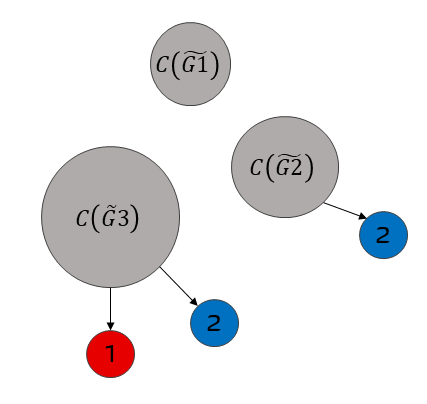
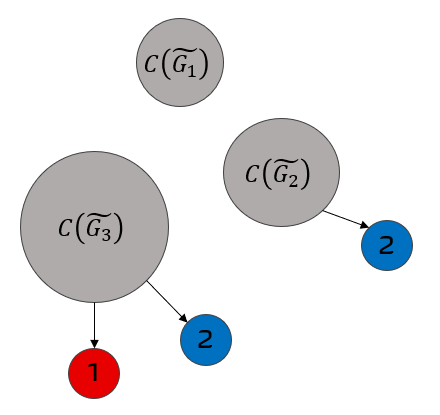
Reviewed all up to Chapter III included.

diff --git a/Report/chapters/TheoreticalAnalysis.tex b/Report/chapters/TheoreticalAnalysis.tex
@@ -1,6 +1,6 @@
-\section{Theoretical Analysis}
+\section{Theoretical Analysis and Results}
 \subsection{General Considerations}
-Without loss of generality, the labels of the nodes in the graph can be selected so that the indices referring to the fake/real news sources appear to be the last ones. Considering $n_p$ as the number of people in the network, $n_s$ as the number of fake and real news sources and $n = n_p + n_s$ the sum thereof, then $A \in \mathbb{R}^{ (n) \times (n)}$ can be partitioned as follows:
+Without loss of generality, the labels of the nodes in the graph can be selected so that the indices referring to the fake/real news sources appear to be the last ones. Considering $n_p$ as the number of people in the network, $n_s$ as the number of fake and real news sources and $n = n_p + n_s$ the sum thereof, then $A \in \mathbb{R}^{ n \times n}$ can be partitioned as follows:
 
 $$
 A = 
@@ -11,20 +11,35 @@ A =
 \quad
 $$
 
-Where $\tilde{A}$ describes the reciprocal human-human interactions and $\tilde{B}$ describes how people's opinions are directly affected by the sources. The zero and identity matrices below encode the fact that the sources' opinions are not changing over time. \newline
-The matrix A is row-stochastic, which implies that $1_n$ is eigenvector of A with eigenvalue 1. The Gershgorin disk theorem tells that a row-stochastic matrix cannot have an eigenvalue with magnitude greater than one. By applying the theorem to the treated case, where each diagonal element is different from zero, it can be concluded that the only possible eigenvalue with magnitude equal to one is 1 itself. The following therefore holds for the spectrum of A (1 has algebraic multiplicity $n_{mult}$):
-\begin{align*}
-spec(A) \subset \{\mu \in \mathbb{C}^n,\ \mu_i = 1\ \forall i & \in \{1,..,n_{mult}\},\\
-| \mu_i | < 1 \text{ otherwise}\}
-\end{align*}
-Because $\rho(A) = 1$, the matrix A cannot be stable but it is semi-stable iff $1 \in spec(A)$ is semi-simple. \newline
-The randomness in the graph generation process do not allow to conclude much more deterministically. The properties of $\tilde{A}$ are of great importance to infer the system behavior. It is remarkable that with the proposed set up: N = 100 individuals and $C$ = 0.2, nRoot = 4 (this fully describes the probabilistic model of the connections between a person and its neighbors, see Subsection~\ref{subsec:connections_existence}. The numerical values are the ones used for the numerical experiments, see Section~\ref{sec:experiments}), $\tilde{A}$ describes a strongly-connected graph in 99.4$\%$ of the cases. This value was obtained after generating 10000 different networks. The graph is directed and a connection from node i to node j implies a connection from j to i but with different weights in general. The 0.6$\%$ represents therefore some pathological and unlikely cases where part of the network is completely disconnected from the rest. This could represent an isolated and separated society living in our simulated world. Since these cases are not relevant for the aim of this project (the news spread in a connected society is studied), these cases were simply discarded. From now on, it can therefore be assumed that the graph describing the human-human interactions is strongly connected, meaning that the matrix $\tilde{A}$ is irreducible.\newline In the following, the steady state behavior of the discrete time averaging system of Equation~\eqref{eq:model}
-is analyzed under various circumstances.
-\acomment{check that convergence to consensus if no source}
+Where $\tilde{A}$ describes the reciprocal individual-individual interactions and $\tilde{B}$ describes how people's opinions are directly affected by the sources. The zero and identity matrices below encode the fact that the sources' opinions are not changing over time.\\
+
+The matrix A is row-stochastic, which implies that $1_n$ is eigenvector of A with eigenvalue 1. The Gershgorin disk theorem tells that a row-stochastic matrix cannot have an eigenvalue with magnitude greater than one. By applying the theorem to the treated case, where each diagonal element is different from zero, it can be concluded that the only possible eigenvalue with magnitude equal to 1 is 1 itself. Thus, for each eigenvalue $\mu$ of $A$, $\mu=1$ or $|\mu|<1$.
+
+
+%%% old version
+%The following therefore holds for the spectrum of A:
+%\begin{align*}
+%spec(A) \subset \{\mu \in \mathbb{C}^n,\ \mu_i = 1\ \forall i & \in \{1,..,n_{mult}\},\\
+%| \mu_i | < 1 \text{ otherwise}\}
+%\end{align*}
+%%% old version 
+%%%%% work in progress
+%where $n_{mult}$ is the algebraic multiplicity of 1.
+
+%%%%%
+Denoting $\rho(A)$ the spectral radius, we have $\rho(A) = 1$, thus the matrix A cannot be stable but it is semi-stable if and only if the eigenvalue $1$ is semi-simple.
+
+The randomness in the graph generation process does not allow to conclude much more deterministically. However, the properties of $\tilde{A}$ are of great importance to infer the system behavior.
+For the numerical experiments in
+sections~\ref{sec:Instr_Level} to~\ref{sec:manipulability}, the model parameters were set to $n_p = 100$, $C$ = 0.2, nRoot = 4 and news connection type \textit{local}. It is remarkable that with the proposed set up $\tilde{A}$ describes a strongly-connected graph in 99.4$\%$ of the cases. This value was obtained after generating 10000 different networks.
+%The parameters $n_p$, $C$, nRoot and the news connection type, fully describe the probabilistic model to generate connections between a person and its neighbors, see Subsection~\ref{subsec:connections_existence}.
+ The graph is directed and a connection from node $i$ to node $j$ implies a connection from $j$ to $i$ but with different weights in general. The 0.6$\%$ represents therefore some pathological and unlikely cases where part of the network is completely disconnected from the rest. This could represent an isolated and separated society living in our simulated world. Since these cases are not relevant for the aim of this project (the news spread in a connected society is studied), these cases were simply discarded. From now on, it can therefore be assumed that the graph describing the individual-individual interactions is strongly connected, meaning that the matrix $\tilde{A}$ is irreducible.\newline In the following, the steady state behavior of the discrete time averaging system of Equation~\eqref{eq:model}
+is analyzed under various conditions.
+
 \subsection{$n_s = 0$}
-If there are no sources, the matrix A = $\tilde{A}$ describes a strongly connected digraph. Each node has a self-cycle meaning that the single strongly connected component is acyclic. The graph is therefore strongly connected and acyclic, which implies that the matrix A describing it is primitive. This, together with the fact that A is row-stochastic, implies that A is semi-convergent and that the discrete-time averaging system convergences to consensus and namely to:
+If there are no sources, the matrix A = $\tilde{A}$ describes a strongly connected digraph. Each node has a self-cycle meaning that the single strongly connected component is aperiodic. The graph is therefore strongly connected and aperiodic, which implies that the matrix A describing it is primitive. This, together with the fact that A is row-stochastic, implies that A is semi-convergent and that the discrete-time averaging system convergences to consensus and namely to:
 $$
-x_{\infty} = (w^Tx(0))1_n = \left(\sum_{i=1}^{n_p}w_ix_i(0)\right)1_n
+x_{\infty} = (w^Tx(0))1_n = \left(\sum_{i=1}^{n}w_ix_i(0)\right)1_n
 $$
 $$
 w^TA = w^T,\ 
@@ -35,11 +50,11 @@ $$
 \begin{figure}[!t]
 	\centering
 	\includegraphics[width=2.5in]{Figures/condensation_digraph.png}
-	\caption{Example of a network condensation digraph C(G). The people interactions are summarized as a single node and there are one source of fake news (red) and two sources of real news (blue).}
+	\caption{Example of a network condensation of digraph $G$. All individuals belong to a single strongly connected component $C(\tilde{G})$ (grey), there are one source of fake news (red) and two sources of real news (blue). $G$ is the digraph associated to the adjacency matrix $A$, $\tilde{G}$ is associated to $\tilde{A}$.}
 	\label{pics:condensation_digraph_example}
 \end{figure}
-Figure~\ref{pics:condensation_digraph_example} shows an example condensation digraph for a network with irreducible $\tilde{A}$, one source of fake news and two sources of real news. The condensation is in general composed of $n_s+1$ nodes. The sources are all represented by sinks and the network of people by a single node connected to all sinks. \newline
-All strongly connected components are furthermore acyclic: both the sources and the individuals have self-loops.
+Figure~\ref{pics:condensation_digraph_example} shows an example condensation digraph for a network with irreducible $\tilde{A}$, one source of fake news and two sources of real news. The condensation is in general composed of $n_s+1$ nodes.  The news sources are all represented by sinks and the network of people by a single node connected to all sinks. \newline
+All strongly connected components are furthermore aperiodic: both the sources and the individuals have self-loops.
 According to theorem 5.2 from the lecture notes, for a row-stochastic matrix A with multiple aperiodic sinks ($n_s \geq 2$), the following holds:
 \begin{enumerate}
 	\item
@@ -47,52 +62,54 @@ According to theorem 5.2 from the lecture notes, for a row-stochastic matrix A w
 	\item
 	The eigenvalue 1 is semi-simple with multiplicity $n_s$ and all other eigenvalues $|\mu|<1$.
 	\item
-	The left eigenvectors $w^p \in \mathbb{R}^n$, $p\in \{1,...,n_s\}$, of A corresponding to the eigenvalue 1 can be selected to satisfy: $w^p\geq0,\ 1_n^Tw^p=1$, $w^p_i>0$ if and only if node i belongs to sink p.
+	The left eigenvectors $w^q \in \mathbb{R}^n$, $q\in \{1,...,n_s\}$, of A corresponding to the eigenvalue 1 can be selected to satisfy: $w^q\geq0,\ 1_n^Tw^q=1$, $w^q_i>0$ if and only if node i belongs to sink q.
 	\item
 	$
 	x_{\infty}^i = 
 	\begin{cases}
-	(w^p)^Tx(0),& \text{node i $\in$ sink p}\\
-	\sum_{p=1}^{n_s} z_{i,p}((w^p)^Tx(0)), & \text{otherwise}
+	(w^q)^Tx(0),& \text{node i $\in$ sink q}\\
+	\sum_{q=1}^{n_s} z_{i,q}((w^q)^Tx(0)), & \text{otherwise}
 	\end{cases}
 	$
-	where $z_{i,p},\ p\in\{1,...,n_s\}$, are convex combination coefficients and $z_{i,p} > 0$ if and only if there exists a directed path from node i to the sink p. This is always true for the individuals in this case making $z_{i,p} > 0\ \forall\ p \in \{1,...,n_s\}$ and $i \in \{1,...,n_p\}$.
+	where $z_{i,q},\ q\in\{1,...,n_s\}$, are convex combination coefficients and $z_{i,q} > 0$ if and only if there exists a directed path from node i to the sink q. This is always true for the individuals in this case making $z_{i,q} > 0\ \forall\ q \in \{1,...,n_s\}$ and $i \in \{1,...,n_p\}$.
 \end{enumerate}
-The third statement for the treated scenario implies $(w^p)^T = (0_{1 \times n_p},\ 0_{1 \times (p-1)},\ 1,\ 0_{1 \times (n_s-p)})$. This is because there is only one node in each sink p. The index referring to that node is therefore the only one different from zero in $w^p$. $1_n^Tw=1$ enforces then its value to be exactly equal to 1. By plugging this result into iv), one can obtain the following:
+The third statement for the treated scenario implies $(w^q)^T = (0_{1 \times n_p},\ 0_{1 \times (q-1)},\ 1,\ 0_{1 \times (n_s-q)})$. This is because there is only one node in each sink q. The index referring to that node is therefore the only one different from zero in $w^q$. $1_n^Tw=1$ enforces then its value to be exactly equal to 1. By plugging this result into iv), one can obtain the following:
 $$
 x_{\infty}^i = 
 \begin{cases}
-	x(0)^{n_p+p},& \text{node i $\in$ sink p}\\
-	\sum_{p=1}^{n_s} z_{i,p}(x(0)^{n_p+p}), & \text{otherwise}
+	x(0)^{n_p+q},& \text{node i $\in$ sink q}\\
+	\sum_{q=1}^{n_s} z_{i,q}(x(0)^{n_p+q}), & \text{otherwise}
 \end{cases}
 $$
-where $x(0)^{n_p+p}$ is the $(n_p+p)^{th}$ element of x(0) (= the $p^{th}$ source initial condition). The steady state value of x therefore does not depend on the population initial conditions. It just depends on the sources'. Furthermore, it depends on $z_{i,p}$, whose value is strictly greater than zero for the population as  illustrated earlier. Their exact value depends on the random variables in our model and therefore cannot be estimated in general and their expected value depend on the traits and the connections model. \newline
+where $x(0)^{n_p+q}$ is the $(n_p+q)^{th}$ element of x(0) (= the $q^{th}$ source initial condition). Therefore, the steady state value of $x$ does not depend on the population initial conditions. It just depends on the sources. Furthermore, it depends on $z_{i,q}$, whose value is strictly greater than zero for the population as  illustrated earlier. Their exact value depends on the random variables in our model, thus it cannot be estimated in general and their expected values depend on the traits and the connections model. \newline
 The result can be further simplified by plugging in the values of the initial conditions (-1 for fake and +1 for real news sources):
 $$
 x_{\infty}^i = 
 \begin{cases}
-\delta_p,& \text{node i $\in$ sink p}\\
-\sum_{p=1}^{n_s} z_{i,p}\delta_p, & \text{otherwise}
+\delta_q,& \text{node i $\in$ sink q}\\
+\sum_{q=1}^{n_s} z_{i,q}\delta_q, & \text{otherwise}
 \end{cases}
 $$
-where 
-$
-\delta_p = 
+
+$$ \text{where }
+\delta_q = 
 \begin{cases}
-1,& \text{sink p is real news source}\\
--1,& \text{sink p is fake news source}
+1,& \text{sink q is real news source}\\
+-1,& \text{sink q is fake news source}
 \end{cases}
-$
-The parameters $z_{i,p},\ p\in\{1,...,n_s\}$, are convex combination coefficients, which means that $\sum_{p=1}^{n_s} z_{i,p} = 1$ $\forall$ i.
-If there is only one type of sources (either fake or real news), then $\sum_{p=1}^{n_s} z_{i,p}\delta = \delta*\sum_{p=1}^{n_s} z_{i,p} = \delta$ which is either +1 or -1 depending on whether the only type of source is real or fake: 
+$$
+
+
+The parameters $z_{i,q},\ q\in\{1,...,n_s\}$, are convex combination coefficients, which means that $\sum_{q=1}^{n_s} z_{i,q} = 1$ $\forall$ i.
+If there is only one type of sources (either fake or real news), then $\sum_{q=1}^{n_s} z_{i,q}\delta = \delta*\sum_{q=1}^{n_s} z_{i,q} = \delta$ which is either +1 or -1 depending on whether the only type of source is real or fake: 
 $x_\infty = 
 \begin{cases}
 1_n,& \text{Only real news sources}\\
 -1_n,& \text{Only fake news sources}
 \end{cases}$
-This is consistent with the expectations: if there is only one type of news sources, the whole population will tend to fully believe its opinion as time goes to infinity. This is furthermore independent of the population initial condition.
+\\This is consistent with the expectations: if there is only one type of news sources, the entire population will tend to fully believe this source as time goes to infinity. This is independent of the population initial condition.
 \subsection{$n_s = 1$}
-If $n_s=1$, then there is either a single fake or a single real news source. The condensation digraph contains a single aperiodic sink, which is composed by the source itself. The source is reachable from every node in G and the other nodes are reachable from every node in the graph but from the source. This makes the divulger the only globally reachable node in the graph. Its subgraph is furthermore aperiodic because of the self-loops. From this it follows for the row-stochastic matrix A:
+If $n_s=1$, then there is either a single fake or a single real news source. The condensation digraph contains a single aperiodic sink, which is composed by the news source itself. The news source is reachable from every node in G and the other nodes are reachable from every node in the graph but from the source. This makes the news source the only globally reachable node in the graph. Its subgraph is furthermore aperiodic because of the self-loops. From this, it follows for the row-stochastic matrix A:
 \begin{enumerate}
 	\item
 	The eigenvalue 1 is simple and all other eigenvalues $\mu$ satisfy $|\mu|<1$
@@ -102,32 +119,36 @@ If $n_s=1$, then there is either a single fake or a single real news source. The
 	$w\geq0$ is the left dominant eigenvector of A and $w_i>0$ if and only if $i$ is globally reachable. As previously discussed, this is the case only for the source in the considered scenario. \newline
 	$\implies$ $w^T = (0,...,0,1)$.
 	\item
-	$x_\infty = (w^T x(0))1_n = x(0)^{n_p} 1_n = 	\begin{cases}
+	$$x_\infty = (w^T x(0))1_n = x(0)_{n_p+1} 1_n=$$
+	$$= \begin{cases}
 	1_n,& \text{Real news source}\\
-	-1_n, & \text{Fake news source}
-	\end{cases}$
-	Where $x(0)^{n_p}$ is the $n_p^{th}$ element of x(0) (the source initial condition). 
+	-1_n & \text{Fake news source}
+	\end{cases}$$
+	Where $x(0)_{n_p}$ is the $n_p^{th}$ element of $x(0)$ (the source initial condition). 
 \end{enumerate}
-The whole network would therefore converge to the source opinion as time goes to infinity and this is independent of the population initial conditions.
+Therefore, in the case with only one news source, the whole network converges to the source opinion as time goes to infinity and this is independent of the population initial condition.
+
+
+
 \subsection{Population network not strongly connected}
 \begin{figure}[!t]
 	\centering
 	\includegraphics[width=2.5in]{Figures/not_strongly_connected.png}
-	\caption{Example of a not fully connected network condensation digraph C(G). The people interactions are summarized by the respective subnetworks, there are then one source of fake news (red) and two sources of real news (blue).}
+	\caption{Example of a not fully connected network condensation digraph. The people interactions are summarized by the respective subnetworks. There are one source of fake news (red) and two sources of real news (blue).}
 	\label{pics:nonconnectednetwork}
 \end{figure}
-As previously discussed, if the population network is not strongly connected, there have to be at least two separated population networks, which are strongly connected if taken individually. Figure~\ref{pics:nonconnectednetwork} shows the condensation digraph for an example of a disconnected network. Each sub-network might have one or more nodes and forms a strongly connected network. Each sub-network might or might not be connected to one or multiple sources. \newline
+As previously discussed, if the population network is not strongly connected, there are two or more separated population networks, which are strongly connected if taken individually. Figure~\ref{pics:nonconnectednetwork} shows the condensation digraph for an example of a disconnected network. Each sub-network might have one or more nodes and forms a strongly connected network. Each sub-network might or might not be connected to one or multiple sources. \newline
 In order to find the steady state, each network can be observed separately:
 \begin{itemize}
 	\item 
-	Provide a label to each sub-network, $G_i$, $i\in\{1,...,n_{SN}\}$, $n_{SN}=$ $\#$ sub-networks.
+	Provide a different label to each sub-network, $\tilde{G}_i$, $i \in \mathbb{N}$
 	\item 
-	For i = 1:$n_{SN}$
+	For every sub-network $i$,
 	\begin{itemize}
 		\item 
-		Count the number of nodes $n_p^i$ and the number of sources $n_s^i$ in $G_i$. 
+		Count the number of nodes corresponding to individuals $n_p^i$ and the number of news sources $n_s^i$ connected to $\tilde{G}_i$. 
 		\item 
-		Apply the formulas presented in the previous sections to find the steady state of the network i.
+		Apply the formulas presented in the previous sections to find the steady state of the sub-network $i$.
 	\end{itemize}
 \end{itemize}
-The sub network steady states are therefore independent of one another. The results will be therefore completely different in general. 
+The sub-network steady states are therefore independent of each other. The results will be therefore completely different in general. 

diff --git a/Report/chapters/Mathematical.tex b/Report/chapters/Mathematical.tex
@@ -1,4 +1,4 @@
-\section{Mathematical Formulation}
+\section{Problem Statement and Model Definition}
 \label{sec:mathematical}
 To study the spread of news in the population, three types of agents are considered: individuals (also called "people"), \textit{real} news sources, and \textit{fake} news sources. In the context of this research, we define a real news source as a source that spreads reliable, unbiased and fact-checked information. Its opposite, the fake news source, spreads false information. An example of one such network can be seen in Figure~\ref{pics:network_example}.
 
@@ -15,61 +15,61 @@ x(k+1) = A x(k),
 \end{equation}
 where $x_i(k) \in [-1;1]$ represents the opinion of individual or source  $i$ at timestep $k$ and $A$ is the adjacency matrix of the network, as in the popular opinion model\cite{Friedkin1990}. Opinion $1$ corresponds to total belief in the real news, while opinion $-1$ corresponds to total belief in the fake news.
 Constructing the adjacency matrix $A$ is a non-trivial task as it requires several assumptions on the the existence of links between people, the existence of links between people and news sources, and the importance of each such link.
-The existence of links between different individuals and between individuals and sources is determined either by their physical distance or randomly, as will be explained in more detail in Subsection~\ref{subsec:connections_existence}.
+The existence of links between different individuals and between individuals and sources is determined either by their physical distance or randomly, as will be explained in more detail in Section~\ref{subsec:connections_existence}.
 To compute the weights in the adjacency matrix, several qualitative but sensible assumptions are made:
-\acomment{spiegare: C, nRoot, local/non-local news connection}
+
 \renewcommand{\theenumi}{\roman{enumi}}
 \begin{enumerate}
 \item \textit{Similarity}: connections between similar people are stronger. This derives from the fact that people tend to listen to their peers, friends and colleagues more than people that are completely different from them \cite{Youyou2017}\cite{Afifi2013}. Real-world concepts that define similarity may include, but are not limited to: career path, certain behavioral traits, age, nationality, etc.
-\acomment{non funziona citazione}
+
 \item \textit{Influenceability}: different people give different importance to their own personal opinions and can be more or less influenced by external opinions.
-\item \textit{Critical thinking}: a person may believe \textit{news sources} more or less, depending on how developed the critical thinking ability  is.
+\item \textit{Critical thinking}: a person may believe fake or real news sources more or less, depending on how developed their critical thinking ability is.
 \end{enumerate}
 Mathematically, 
-Translating these assumptions into a network adjacency matrix $A$ can be done in multiple ways. In this research we mainly present one way for different experiments\acomment{quali different experiments con la prima variante di modello}, and then a second slightly modified one to investigate opinion polarization. 
+translating these assumptions into a network adjacency matrix $A$ can be done in multiple ways. In this research we mainly present one way that is used for experiments in sections~\ref{sec:Instr_Level} to~\ref{sec:manipulability}, and then a second slightly modified one to investigate opinion polarization in~\ref{sec:polarization}. 
+
 \subsection{Population Matrix}
-To build a realistic network, there needs to be some different between individuals. To differentiate between them, a \textit{population matrix} $P \in \mathbb{R}^{N \times t}$ is introduced, where $N$ is the number of individuals in the network and $t$ is the number characteristics defined for each person. In this research, $t=3$ and the chosen characteristics are: \textit{similarity}, \textit{influenceability} and \textit{critical thinking ability}. The position of an individual inside the matrix $P$ matters, as can be seen in Paragraph~\ref{subsub: connections}.
+To build a realistic network, there needs to be some difference between individuals. To differentiate between them, a \textit{population matrix} $B \in \mathbb{R}^{n_p \times t}$ is introduced, where $n_p$ is the number of individuals in the network and $t$ is the number characteristics defined for each person. In this research, $t=3$ and the chosen characteristics are: \textit{similarity}, \textit{influenceability} and \textit{critical thinking ability}. The relative position of an individual inside the matrix $B$ matters, as can be seen in Paragraph~\ref{subsub: connections}. The columns of $B$ are initialized with different random distributions, depending on the desired predominance of traits in the modeled society. Examples of such distributions can be seen in the numerical experiments in Chapter~\ref{sec:experiments}.
 \subsection{News Sources}
-The number of news sources in the model is an important parameter when creating the network. We define the number of real news sources $N_{\text{real}}$ and the number of fake news sources $N_{\text{fake}}$.
+The number of news sources in the model is an important parameter when creating the network. We define the number of real news sources $n_{r}$ and the number of fake news sources $n_{f}$.
 \subsection{Existence of Connections}
 \label{subsec:connections_existence}
-When generating the adjacency matrix, connections between individuals and news sources need to be created.
-\subsubsection{Connections Between Individuals}
+When generating the adjacency matrix, connections between nodes need to be created.
+\subsubsection{Connections Among Individuals}
 \label{subsub: connections}
-Connections are created based on geographical distance. The real-world is simplified to a straight line with periodic boundaries. The connection between individuals $i$ and $j$ is created with probability 
-\acomment{spiegare come viene creata A, param C, nroot, locality o no}
+Connections are created based on geographical distance. The real-world is simplified to a straight line with periodic boundaries, where the position of an individual is given by its position inside of the vector $x$. The connection between individuals $i$ and $j$ is created with probability 
+
 
 \begin{equation}
-P(i,j) = \frac{C}{\sqrt[\text{nRoot}]{\vert i-j\vert}}
+P(i,j) = \min\left\lbrace 1,\frac{C}{\sqrt[\text{nRoot}]{\vert i-j\vert}}\right\rbrace
 \end{equation}
-where $C$ and $nRoot$ are tunable parameters that shape the probability distribution. $C$ linearly increases or decreases the probability of connections between neighbors, while $\text{nRoot}$ defines how quickly $P(i,j)$ decays as a function of $\vert i-j \vert$.
+where $C\in \mathbb{R}^*_+$ and nRoot $\in \mathbb{N}^*$ are tunable parameters that shape the probability distribution. $C$ linearly scales the probability of connections between neighbors, while $\text{nRoot}$ defines how quickly $P(i,j)$ decays as a function of $\vert i-j \vert$.
 
-\subsubsection{Connections Between Individuals and Sources}
-Each news source has a number of connections (the "Range" of a news source) given by $\text{Range} = 10\% (N)$, where $N$ is the number of individuals.
-News sources are connected to individuals either \textit{locally} or \textit{non-locally}. 
-\\If the new sources are connected locally, for each news source an individual is chosen (from a uniform distribution) and then this individual and its $\tilde{N}$ geographically closest individuals (on the straight line defined at the beginning of this subchapter) are connected to the news source.
-\\If instead the news sources are connected non-locally, $\tilde{N}$ individuals are randomly selected (from a uniform distribution) and connected to the news source.
+\subsubsection{Connections Among Individuals and Sources}
+We define $R$, the \textit{Range}, as the number of connections each news source has, which is given by $R= 10\% (n_p)$, where $n_p$ is the number of individuals.
+News connection type is either \textit{local} or \textit{non-local}. 
+\\If the news sources are connected locally, for each news source an individual is chosen (uniformly at random) and then this individual and its $R$ geographically closest individuals (on the straight line defined at the beginning of this section) are connected to the news source.
+\\If instead the news sources are connected non-locally, $R$ individuals are selected (uniformly at random) and connected to the news source.
 \\In our framework, locality and non-locality of news sources can be set independently for real news sources and fake news sources.
 
 
 
 \subsection{Importance of Connections}
-Once a connection is present, also the strength of the link needs to be defined.
+Once a connection is present, the next step is to define its strength.
 
 \subsubsection{Connections Between Individuals}
-The weights of the connections between individuals $i,j$ are modified depending on the people matrix. The weights $a_{ij}$ are modified sequentially for each couple of individuals $(i,j)$ in the following way:
+If a connection from individual $i$ to individual $j$ exists, the weight $a_{ij}$ is initialized to 1, otherwise to 0 ($a_{ii}$ is always set to 0).
+The weights of the connections between individuals $i,j$ are then modified depending on the population matrix $B$. The weights $a_{ij}$ are modified sequentially for each couple of individuals $(i,j)$ according to following three update steps:
 
-\acomment{quando si parla di come inizializzare il personality vector?}
 \begin{enumerate}
-\item[\text{Step 1}] \textit{Similarity:} $a_{ij}^{\text{new}} = \dfrac{a_{ij}^{\text{old}}}{1 + \vert s_i - s_j\vert}$, with $ i \neq j$ and where $s_i$ is the similarity value of individual $i$. Each individual is assigned a value of the similarity index $s_i \in [0,1]$. 
-\item[\text{Step 2}] \textit{Influenceability:} $a_{ii}^{\text{new}} = a_{ii}^{\text{old}}+10*\dfrac{a_{ii}^{\text{old}}}{1 + f_i}$, where $s_i$ is the influenceability value of individual $f_i$. The scaling factor $10$ was found empirically by trying to balance the effects of similarity and influenceability on the weights of A, for the baseline cases described in Section~\ref{sec:experiments}.
+\item[\text{(S1)}] \textit{Similarity:} $a_{ij} \leftarrow \dfrac{a_{ij}}{1 + \vert s_i - s_j\vert}$, with $ i \neq j$ and where $s_i$ is the similarity value of individual $i$. 
+\item[\text{(S2)}] \textit{Influenceability:} $a_{ii} \leftarrow \dfrac{10}{1 + f_i}$, where $f_i$ is the influenceability value of individual $i$. The scaling factor $10$ was found empirically by trying to balance the effects of similarity and influenceability on the weights of A, for the baseline cases described in Section~\ref{sec:experiments}.
 \end{enumerate}
-The last weight update concerns the weights between individuals and sources, and is explained in~\ref{subsub:ind_sources}.
 
 
 \subsubsection{Connections Between Individuals and Sources}
 \label{subsub:ind_sources}
 \begin{enumerate}
-\item[\text{Step 3}] \textit{Critical thinking:}$a_{iz}^{\text{new}} = k_i$ for real news sources, and $a_{iz}^{\text{new}} = 1 - k_i$ for fake news sources, where $a_iz$ is the weight of the connection from individual $i$ to the news source $z$ and $k_i \in [0,1]$ is the critical thinking parameter of individual $i$. A high critical thinking parameters (close to $1$), will make the individual give a higher importance to true news sources, while a small parameter will give more importance to fake news sources.
+\item[\text{(S3)}] \textit{Critical thinking:} the weight of connection from individual $i$ to source $z$ is given by $a_{iz} = k_i$ for real news sources, and $a_{iz} = 1 - k_i$ for fake news sources, where $k_i \in [0,1]$ is the critical thinking parameter of individual $i$. A high critical thinking parameter (close to $1$), will make the individual give a higher importance to true news sources, while a small parameter will give more importance to fake news sources.
 \end{enumerate}
-After sequentially applying Steps 1-3 as described above, $A$ is normalized along its rows to make it row-stochastic.
+After sequentially applying Steps 1-3 as described above, $A$ is normalized along its rows to make it row-stochastic. The matrix $A$ is kept constant for the entire scope of a single experiment.

diff --git a/Report/chapters/Theoretical AnalysisOldorUselessProbablyIDoNotKnow.tex b/Report/chapters/Theoretical AnalysisOldorUselessProbablyIDoNotKnow.tex
@@ -1,4 +1,4 @@
-\section{Theoretical Analysis}
+\section{Theoretical Analysis and Results}
 \subsection{General Considerations}
 Without loss of generality, the labels of the nodes in the graph can be selected so that the indices referring to the fake/real news sources appear to be the last ones. Considering $n_{People}$ as the number of people in the network and $n_{Sources}$ as the number of fake and real news sources, the matrix A can be then partitioned as illustrated in the following:
 
